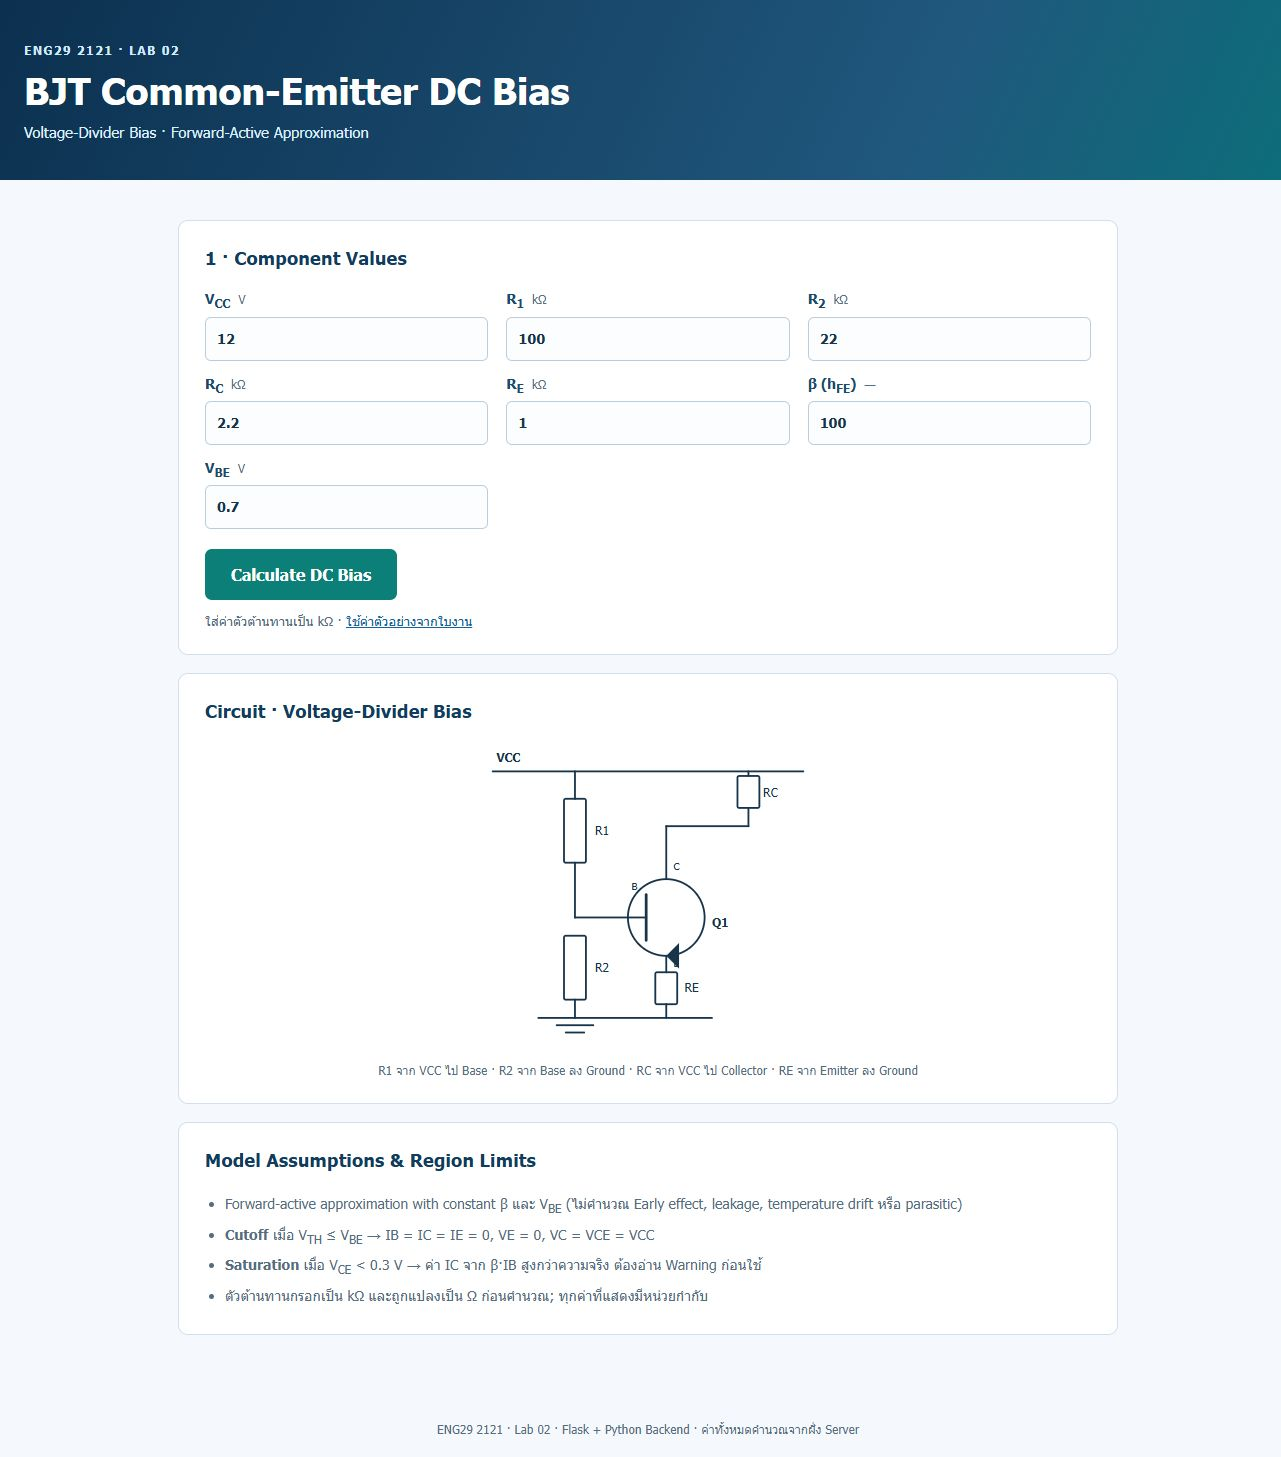
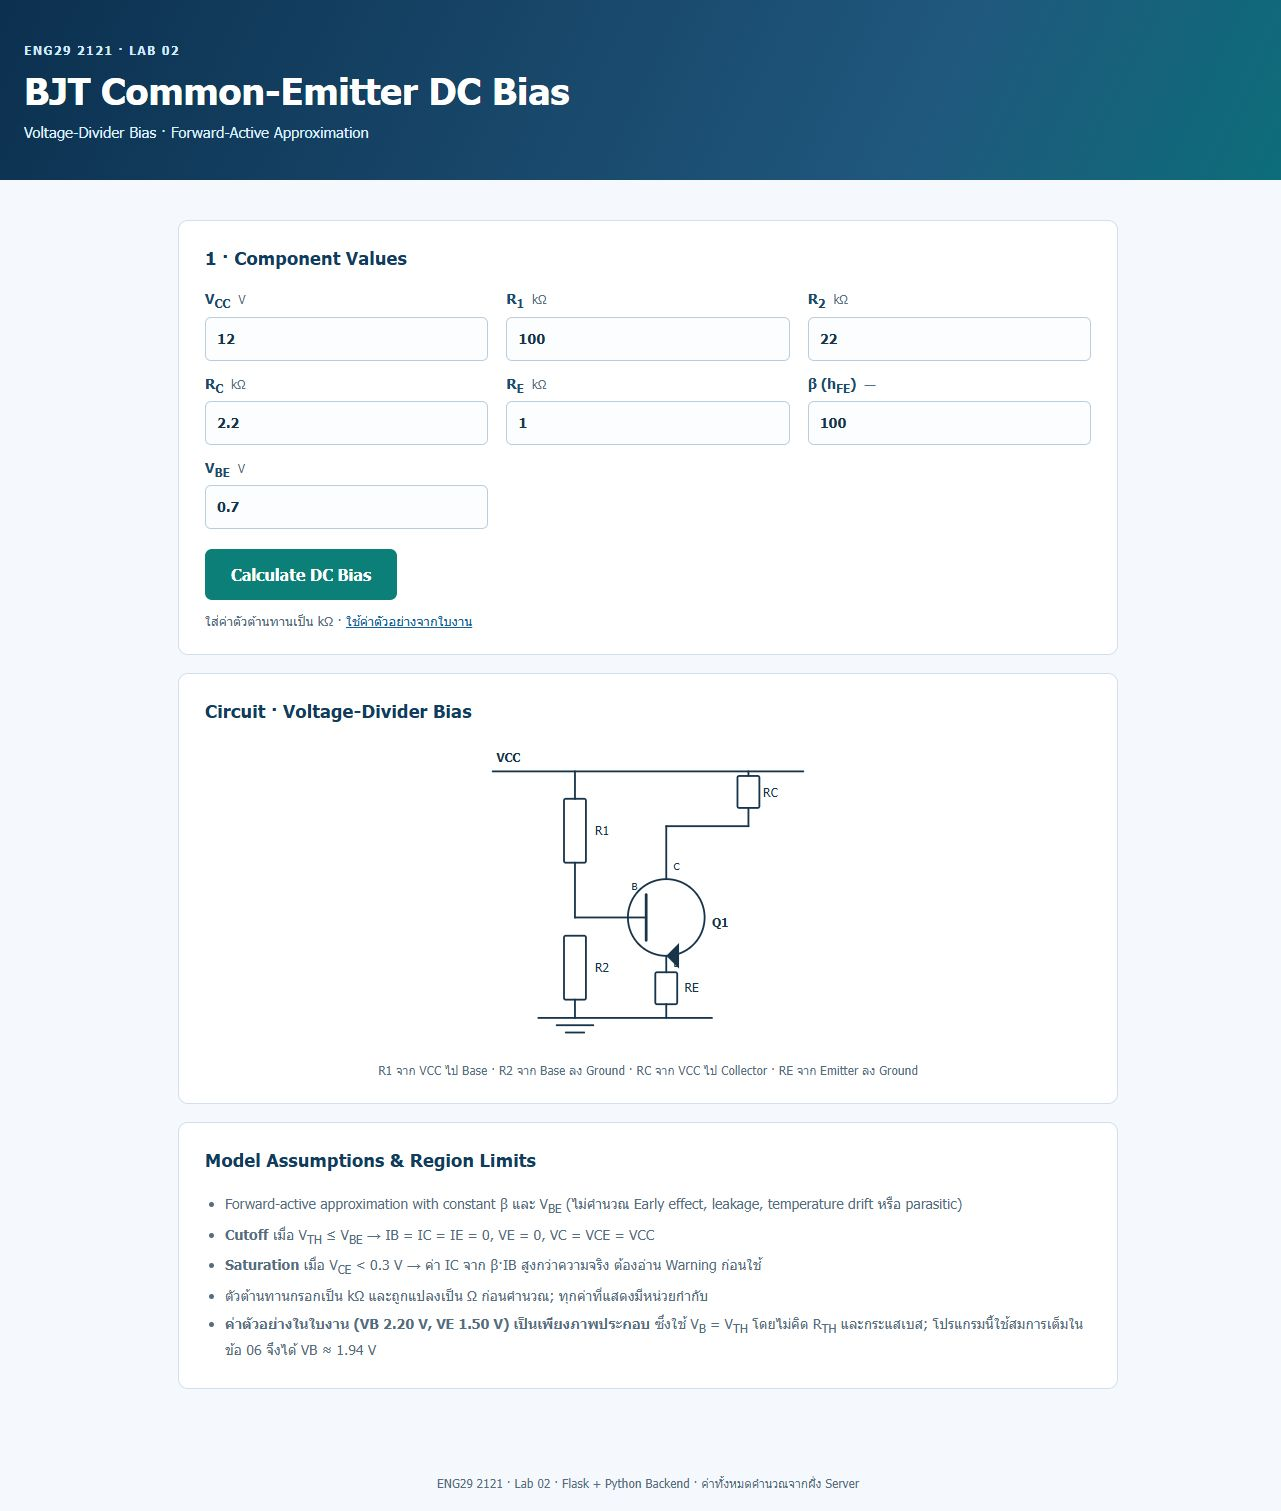
Verify DC bias with independent nodal analysis and explain preview values
Adds IndependentModelTest, documents why the lab-sheet illustration differs from the full Section 06 model, and refreshes screenshots and test log (16 tests).

diff --git a/templates/index.html b/templates/index.html
@@ -174,6 +174,7 @@
         <li><strong>Cutoff</strong> เมื่อ V<sub>TH</sub> ≤ V<sub>BE</sub> → IB = IC = IE = 0, VE = 0, VC = VCE = VCC</li>
         <li><strong>Saturation</strong> เมื่อ V<sub>CE</sub> &lt; 0.3 V → ค่า IC จาก β·IB สูงกว่าความจริง ต้องอ่าน Warning ก่อนใช้</li>
         <li>ตัวต้านทานกรอกเป็น kΩ และถูกแปลงเป็น Ω ก่อนคำนวณ; ทุกค่าที่แสดงมีหน่วยกำกับ</li>
+        <li><strong>ค่าตัวอย่างในใบงาน (VB 2.20 V, VE 1.50 V) เป็นเพียงภาพประกอบ</strong> ซึ่งใช้ V<sub>B</sub> = V<sub>TH</sub> โดยไม่คิด R<sub>TH</sub> และกระแสเบส; โปรแกรมนี้ใช้สมการเต็มในข้อ 06 จึงได้ VB ≈ 1.94 V</li>
       </ul>
     </section>
   </main>

diff --git a/tests/test_dc_bias.py b/tests/test_dc_bias.py
@@ -60,6 +60,50 @@ class RegionTest(unittest.TestCase):
         self.assertIsNotNone(result.warning)
 
 
+class IndependentModelTest(unittest.TestCase):
+    """Solve the same circuit with nodal equations instead of the module formulas."""
+
+    def _nodal_solution(self, vcc, r1, r2, rc, re, beta, vbe):
+        # Resistances in ohm, voltages in volt.
+        k = (beta + 1.0) * re
+        ib = ((vcc - vbe) / r1 - vbe / r2) / (1.0 + k / r1 + k / r2)
+        vb = vbe + k * ib
+        ve = vb - vbe
+        ic = beta * ib
+        ie = (beta + 1.0) * ib
+        vc = vcc - ic * rc
+        vce = vc - ve
+        return dict(ib=ib, ic=ic, ie=ie, vb=vb, ve=ve, vc=vc, vce=vce)
+
+    def test_nodal_solution_matches_module(self):
+        result = calculate_dc_bias(
+            vcc=12, r1=100, r2=22, rc=2.2, re=1, beta=100, vbe=0.70
+        )
+        nodal = self._nodal_solution(
+            12.0, 100_000.0, 22_000.0, 2_200.0, 1_000.0, 100.0, 0.70
+        )
+
+        self.assertAlmostEqual(result.ib, nodal["ib"], delta=1e-9)
+        self.assertAlmostEqual(result.ic, nodal["ic"], delta=1e-9)
+        self.assertAlmostEqual(result.ie, nodal["ie"], delta=1e-9)
+        self.assertAlmostEqual(result.vb, nodal["vb"], delta=1e-9)
+        self.assertAlmostEqual(result.ve, nodal["ve"], delta=1e-9)
+        self.assertAlmostEqual(result.vc, nodal["vc"], delta=1e-9)
+        self.assertAlmostEqual(result.vce, nodal["vce"], delta=1e-9)
+
+    def test_preview_approximation_ignores_base_loading(self):
+        """The illustrative image in the lab sheet sets VB = VTH (no base current)."""
+        vcc, r1, r2 = 12.0, 100_000.0, 22_000.0
+        vth = vcc * r2 / (r1 + r2)  # 2.164 V, the value used by the preview
+        result = calculate_dc_bias(
+            vcc=12, r1=100, r2=22, rc=2.2, re=1, beta=100, vbe=0.70
+        )
+
+        self.assertAlmostEqual(vth, 2.164, places=3)
+        self.assertLess(result.vb, vth)  # base current loads the divider
+        self.assertAlmostEqual(result.vb, 1.942, places=3)
+
+
 class ValidationTest(unittest.TestCase):
     def test_zero_resistance_is_rejected(self):
         with self.assertRaises(ValidationError):

diff --git a/docs/validation.md b/docs/validation.md
@@ -49,16 +49,50 @@ python -m unittest discover -s tests -v
 Result:
 
 ```
-Ran 14 tests in 0.067s
+Ran 16 tests in 0.044s
 
 OK
 ```
 
-Breakdown: 10 engineering tests (reference values, Thevenin equivalent,
-cutoff, saturation, three validation cases) and 4 Flask route tests
-(GET form, POST `/calculate`, POST `/`, invalid input).
+Breakdown: 12 engineering tests (reference values, independent nodal model,
+preview approximation, Thevenin equivalent, cutoff, saturation, three
+validation cases) and 4 Flask route tests (GET form, POST `/calculate`,
+POST `/`, invalid input).
 
-## 5. Known limitations
+## 5. Why the illustrative image differs
+
+Section 01B of the lab sheet shows an example result (`VB = 2.20 V`,
+`VE = 1.50 V`, `VC = 8.70 V`, `VCE = 7.20 V`, `IB = 15.1 µA`,
+`IC = 1.50 mA`) and states that the image is illustrative only. Those numbers
+come from the simplified form
+
+```
+VB = VTH = VCC · R2 / (R1 + R2) = 2.164 V ≈ 2.2 V
+IE = (VB − VBE) / RE       IC ≈ IE
+```
+
+which **ignores `RTH` and the base current**. The equations required in
+Section 06 of the same sheet are
+
+```
+IB = (VTH − VBE) / (RTH + (β + 1)RE)
+```
+
+and that is what `dc_bias.py` implements, so the app reports
+`VB = 1.942 V` and `IC = 1.230 mA` for the same components. The two differ by
+about 11 % in `VB`, which is exactly the base-loading error the full model
+removes.
+
+This is verified independently by `IndependentModelTest`, which solves the
+same circuit with nodal analysis instead of the module formulas and must
+agree to numerical precision (`delta = 1e-9`), and by
+`test_preview_approximation_ignores_base_loading`, which asserts
+`VTH = 2.164 V` while the module result is `VB = 1.942 V`.
+
+The app deliberately keeps the physics of Section 06 instead of being tuned to
+match the picture, and the page states this next to the assumptions.
+
+## 6. Known limitations
 
 - Saturation values are produced by the forward-active equations and
   overestimate `IC`; the warning states this explicitly.

diff --git a/docs/acceptance-checklist.md b/docs/acceptance-checklist.md
@@ -9,7 +9,7 @@
 | A3 | ค่าตรงกับการคำนวณอิสระภายใต้แบบจำลองเดียวกัน | ✅ | ตารางคำนวณมือใน `docs/validation.md` · `tests/test_dc_bias.py` |
 | A4 | R≤0, β≤0, ข้อมูลไม่ใช่ตัวเลข → Error ชัดเจน หน้าไม่ล้ม | ✅ | ภาพ `docs/screenshot-error.jpeg` · HTTP 400 · `ValidationTest` 3 เทสต์ |
 | A5 | เตือนกรณี Cutoff / Saturation | ✅ | ภาพ `docs/screenshot-warning.jpeg` (Saturation, VCE = −0.451 V) · `RegionTest` 2 เทสต์ |
-| A6 | ≥3 Automated Tests ด้าน Engineering + ≥1 Flask test client | ✅ | **14 เทสต์** (10 engineering + 4 web) · `docs/test-log.txt` |
+| A6 | ≥3 Automated Tests ด้าน Engineering + ≥1 Flask test client | ✅ | **16 เทสต์** (12 engineering + 4 web) · `docs/test-log.txt` |
 | A7 | Clone repo แล้วติดตั้ง/รัน/ทดสอบตาม README ได้ | ✅ | Push ขึ้น GitHub แล้ว · README มีคำสั่ง venv / flask / unittest ครบ · ทดสอบ `git clone` → รันตาม README ได้ |
 
 ## หลักฐานที่ต้องส่ง Moodle

diff --git a/README.md b/README.md
@@ -115,7 +115,7 @@ accurate.
 | Brainstorm + Planning มีขอบเขตสมเหตุสมผล | 1 | `docs/design-note.md`, `docs/implementation-plan.md` |
 | Flask Web App เปิดผ่าน Browser รับ/แสดงผลได้ (multi-file/backend) | 3 | `app.py`, `dc_bias.py`, `templates/`, `static/`, `docs/screenshot-result.jpeg` |
 | DC Bias ถูกหลักวงจร มีหน่วยและสมมติฐานชัดเจน | 2 | `docs/validation.md`, ตารางผล + `Calculation details` + `Model Assumptions & Region Limits` บนหน้าเว็บ |
-| Automated Tests + Input Validation + Warning | 2 | `tests/` (14 เทสต์), `docs/test-log.txt`, `docs/screenshot-error.jpeg`, `docs/screenshot-warning.jpeg` |
+| Automated Tests + Input Validation + Warning | 2 | `tests/` (16 เทสต์), `docs/test-log.txt`, `docs/screenshot-error.jpeg`, `docs/screenshot-warning.jpeg` |
 | Review Code, GitHub Commit/Push, README, Reflection | 2 | `docs/code-review.md`, `docs/acceptance-checklist.md`, `docs/reflection.md`, commit history |
 
 ## Submission

diff --git a/docs/code-review.md b/docs/code-review.md
@@ -12,7 +12,7 @@
 | หน่วย | ผ่าน | ทุกค่าที่แสดงมี V / mA / µA / kΩ |
 | Validation | ผ่าน | R≤0, β≤0, ค่าไม่ใช่ตัวเลข → HTTP 400 + ข้อความ |
 | Warning | ผ่าน | Cutoff (VTH ≤ VBE) และ Saturation (VCE < 0.3 V) |
-| Tests | ผ่าน | 14 เทสต์ (10 engineering + 4 HTTP) |
+| Tests | ผ่าน | 16 เทสต์ (12 engineering + 4 HTTP) |
 | ความปลอดภัยเบื้องต้น | ผ่าน | ไม่มี secret, `.venv/` และ `.env` ถูก ignore |
 | UI | ผ่านหลังแก้ | พบ bug แล้วแก้ (ข้อ 1 ด้านล่าง) |
 
@@ -47,7 +47,7 @@
 
 ```bash
 python -m unittest discover -s tests -v
-# Ran 14 tests — OK
+# Ran 16 tests — OK
 ```
 
 ภาพหน้าจอ: `docs/screenshot-result.jpeg`, `docs/screenshot-error.jpeg`,
